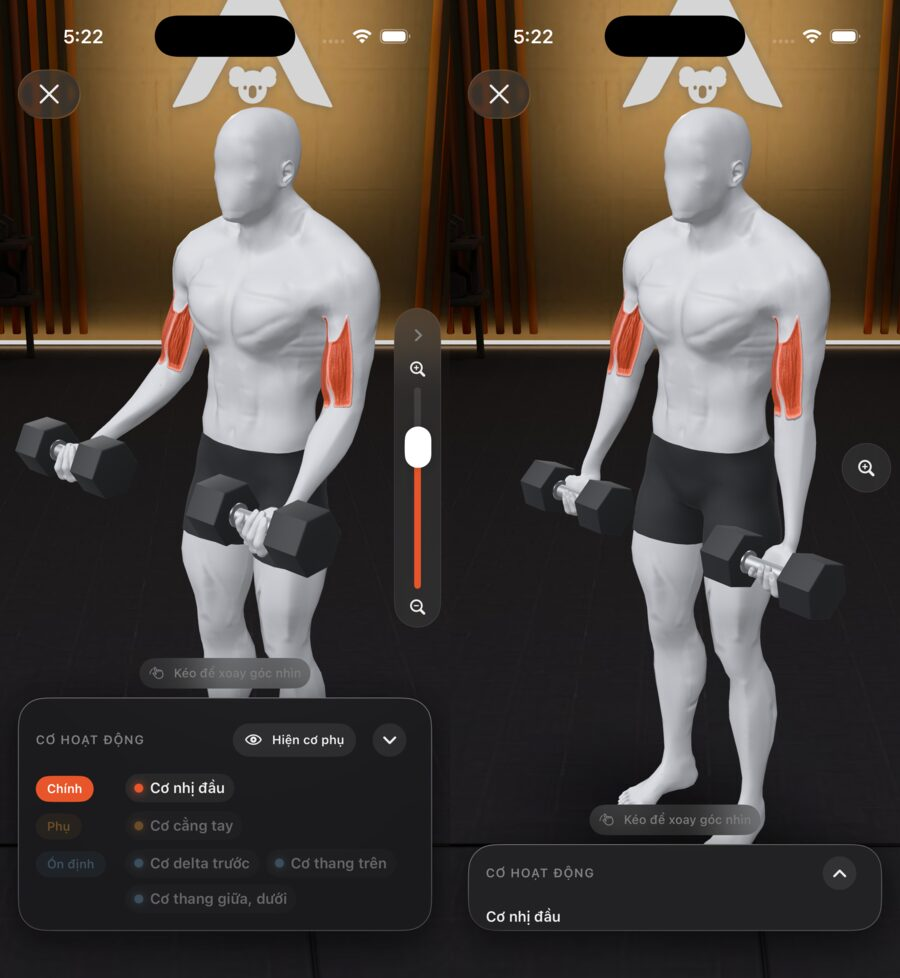
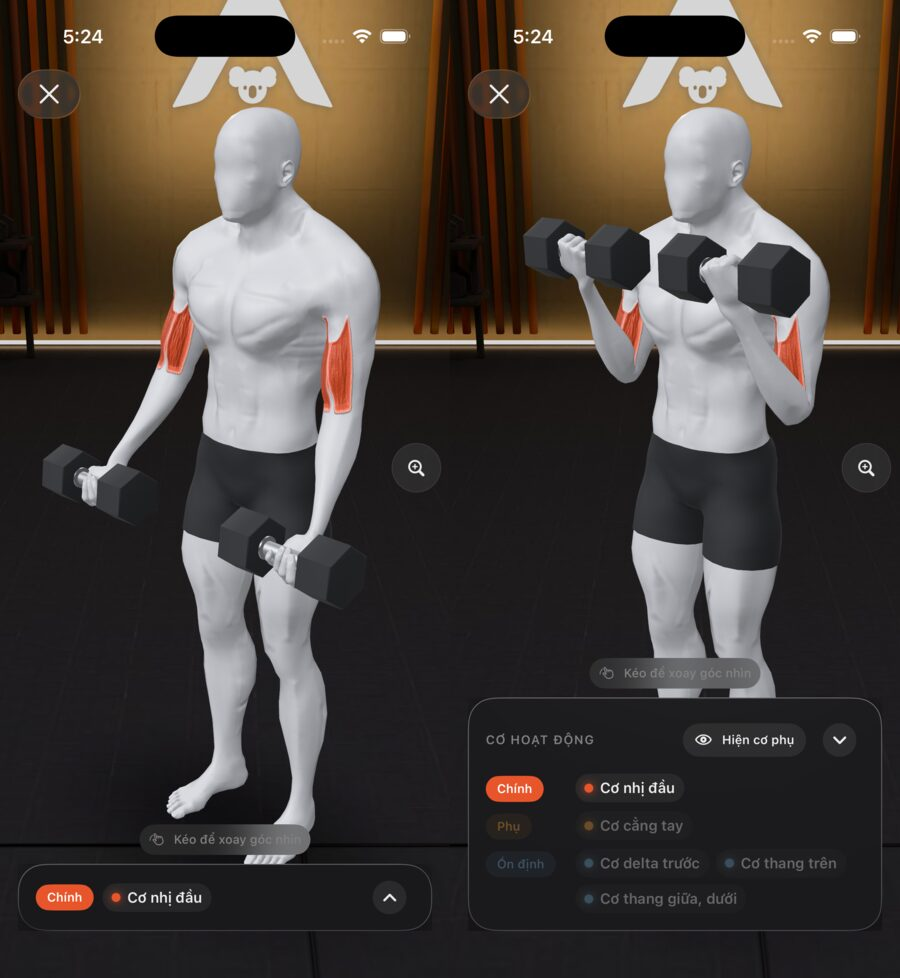
Thu gọn mượt (lò xo nhẹ, mũi tên xoay, thanh zoom co thành nút cùng một vỏ); thẻ thu gọn một dòng: nhãn Chính + chip cơ chính (Kiệt 16/11) (#527)

diff --git a/apps/ios/ASCND/Features/Exercises/ExerciseDemo3DView.swift b/apps/ios/ASCND/Features/Exercises/ExerciseDemo3DView.swift
@@ -35,6 +35,9 @@
     /// Thu gọn thẻ chú thích / thanh zoom (Kiệt 16/11), nhớ cho lần mở sau.
     @AppStorage("demo3d.legendCollapsed") private var legendCollapsed = false
     @AppStorage("demo3d.zoomCollapsed") private var zoomCollapsed = false
+    @Namespace private var zoomMorph
+    /// Lò xo nhẹ cho thu gọn / mở (Kiệt 16/11: "cho mượt"); tắt khi Giảm chuyển động.
+    private var collapseAnimation: Animation? { reduceMotion ? nil : .spring(response: 0.38, dampingFraction: 0.86) }
     @GestureState private var dragOffset: CGSize = .zero
     @GestureState private var pinch: CGFloat = 1
 
@@ -274,28 +277,36 @@
         if zoomCollapsed {
           // Thu gọn: một nút kính lúp; chụm hai ngón vẫn zoom được.
           Button {
-            withAnimation(reduceMotion ? nil : .smooth(duration: 0.2)) { zoomCollapsed = false }
+            withAnimation(collapseAnimation) { zoomCollapsed = false }
           } label: {
             Image(systemName: "plus.magnifyingglass")
               .font(.system(size: 15, weight: .semibold))
               .foregroundStyle(DS.Color.foreground.swiftUI)
               .frame(width: 44, height: 44)
-              .background(.ultraThinMaterial, in: Circle())
-              .overlay(Circle().strokeBorder(.white.opacity(0.12), lineWidth: 0.5))
+              .background { zoomShell }
           }
           .buttonStyle(.plain)
           .accessibilityLabel(Text("eg.demo3d.expandZoom"))
-          .transition(.scale.combined(with: .opacity))
+          .transition(.opacity)
         } else {
-          zoomBar.transition(.move(edge: .trailing).combined(with: .opacity))
+          zoomBar.transition(.opacity)
         }
       }
+    }
+
+    /// Vỏ kính chung của thanh zoom và nút thu gọn: hai trạng thái cùng một
+    /// hình (matchedGeometryEffect), nên thanh co lại thành nút tròn liền mạch.
+    private var zoomShell: some View {
+      RoundedRectangle(cornerRadius: 22, style: .continuous)
+        .fill(.ultraThinMaterial)
+        .overlay(RoundedRectangle(cornerRadius: 22, style: .continuous).strokeBorder(.white.opacity(0.12), lineWidth: 0.5))
+        .matchedGeometryEffect(id: "zoomShell", in: zoomMorph)
     }
 
     private var zoomBar: some View {
       VStack(spacing: DS.Spacing.sm) {
         Button {
-          withAnimation(reduceMotion ? nil : .smooth(duration: 0.2)) { zoomCollapsed = true }
+          withAnimation(collapseAnimation) { zoomCollapsed = true }
         } label: {
           Image(systemName: "chevron.right")
             .font(.system(size: 12, weight: .bold))
@@ -318,8 +329,7 @@
       .foregroundStyle(DS.Color.foreground.swiftUI)
       .padding(.vertical, DS.Spacing.sm + 2)
       .padding(.horizontal, 6)
-      .background(.ultraThinMaterial, in: Capsule())
-      .overlay(Capsule().strokeBorder(.white.opacity(0.12), lineWidth: 0.5))
+      .background { zoomShell }
     }
 
     /// Chú thích cơ đang tô sáng (Kiệt 13/11: bắt buộc phải có, đặt dưới
@@ -329,13 +339,21 @@
 
     private func legendView(_ legend: [ExerciseDemo3D.LegendEntry]) -> some View {
       VStack(alignment: .leading, spacing: DS.Spacing.sm) {
-        HStack {
-          Text("eg.demo3d.legend.title")
-            .font(DS.TextStyle.caption.weight(.semibold))
-            .textCase(.uppercase)
-            .tracking(0.8)
-            .foregroundStyle(DS.Color.mutedForeground.swiftUI)
-            .accessibilityAddTraits(.isHeader)
+        HStack(spacing: DS.Spacing.sm) {
+          if legendCollapsed {
+            // Thu gọn (Kiệt 16/11: "nhìn hơi kì"): một hàng như hàng Chính của
+            // thẻ đầy đủ: nhãn vai trò + chip cơ chính, nút mở ở cuối.
+            collapsedPrimary(legend)
+              .transition(.opacity)
+          } else {
+            Text("eg.demo3d.legend.title")
+              .font(DS.TextStyle.caption.weight(.semibold))
+              .textCase(.uppercase)
+              .tracking(0.8)
+              .foregroundStyle(DS.Color.mutedForeground.swiftUI)
+              .accessibilityAddTraits(.isHeader)
+              .transition(.opacity)
+          }
           Spacer(minLength: DS.Spacing.sm)
           if bodySkins.ready, !legendCollapsed, legend.contains(where: { !$0.roleKey.hasSuffix(".primary") }) {
             Button {
@@ -355,9 +373,10 @@
             .accessibilityAddTraits(hideSecondary ? [.isButton, .isSelected] : .isButton)
           }
           Button {
-            withAnimation(reduceMotion ? nil : .smooth(duration: 0.25)) { legendCollapsed.toggle() }
+            withAnimation(collapseAnimation) { legendCollapsed.toggle() }
           } label: {
-            Image(systemName: legendCollapsed ? "chevron.up" : "chevron.down")
+            Image(systemName: "chevron.down")
+              .rotationEffect(.degrees(legendCollapsed ? 180 : 0))
               .font(.system(size: 13, weight: .bold))
               .foregroundStyle(DS.Color.foreground.swiftUI)
               .frame(width: 30, height: 30)
@@ -368,21 +387,45 @@
           .buttonStyle(.plain)
           .accessibilityLabel(Text(legendCollapsed ? "eg.demo3d.expandLegend" : "eg.demo3d.collapseLegend"))
         }
-        if legendCollapsed {
-          // Thu gọn: chỉ còn tên cơ chính trên một dòng.
-          Text(legend.filter { $0.roleKey.hasSuffix(".primary") }
-            .map { String(localized: String.LocalizationValue($0.nameKey)) }.joined(separator: " · "))
-            .font(DS.TextStyle.footnote.weight(.semibold))
-            .foregroundStyle(DS.Color.foreground.swiftUI)
-            .lineLimit(1)
-        } else {
-          legendRows(legend)
+        if !legendCollapsed {
+          VStack(alignment: .leading, spacing: DS.Spacing.sm) { legendRows(legend) }
+            .transition(.opacity.combined(with: .offset(y: 14)))
         }
       }
       .padding(.horizontal, DS.Spacing.md)
-      .padding(.vertical, legendCollapsed ? DS.Spacing.xs : DS.Spacing.md)
+      .padding(.vertical, legendCollapsed ? DS.Spacing.sm : DS.Spacing.md)
       .frame(maxWidth: .infinity, alignment: .leading)
       .todayCard()
+      .clipped()
+    }
+
+    /// Hàng thu gọn: nhãn "Chính" + chip cơ chính (chấm màu), một dòng, cắt
+    /// bằng dấu … khi quá dài.
+    private func collapsedPrimary(_ legend: [ExerciseDemo3D.LegendEntry]) -> some View {
+      let primary = legend.filter { $0.roleKey.hasSuffix(".primary") }
+      let tint = Color(hex: primary.first?.hex ?? "#E8552B")
+      return HStack(spacing: DS.Spacing.sm) {
+        Text(LocalizedStringKey(Self.roleOrder[0]))
+          .font(DS.TextStyle.caption.weight(.semibold))
+          .foregroundStyle(Color.white)
+          .padding(.horizontal, 10)
+          .padding(.vertical, 4)
+          .background { Capsule().fill(tint) }
+        HStack(spacing: 6) {
+          Circle().fill(tint).frame(width: 8, height: 8)
+            .shadow(color: tint.opacity(0.8), radius: 4)
+            .accessibilityHidden(true)
+          Text(primary.map { String(localized: String.LocalizationValue($0.nameKey)) }.joined(separator: " · "))
+            .font(DS.TextStyle.footnote.weight(.semibold))
+            .foregroundStyle(DS.Color.foreground.swiftUI)
+            .lineLimit(1)
+            .truncationMode(.tail)
+        }
+        .padding(.horizontal, 8)
+        .padding(.vertical, 4)
+        .background(DS.Color.foreground.swiftUI.opacity(0.06), in: Capsule())
+      }
+      .accessibilityElement(children: .combine)
     }
 
     @ViewBuilder
